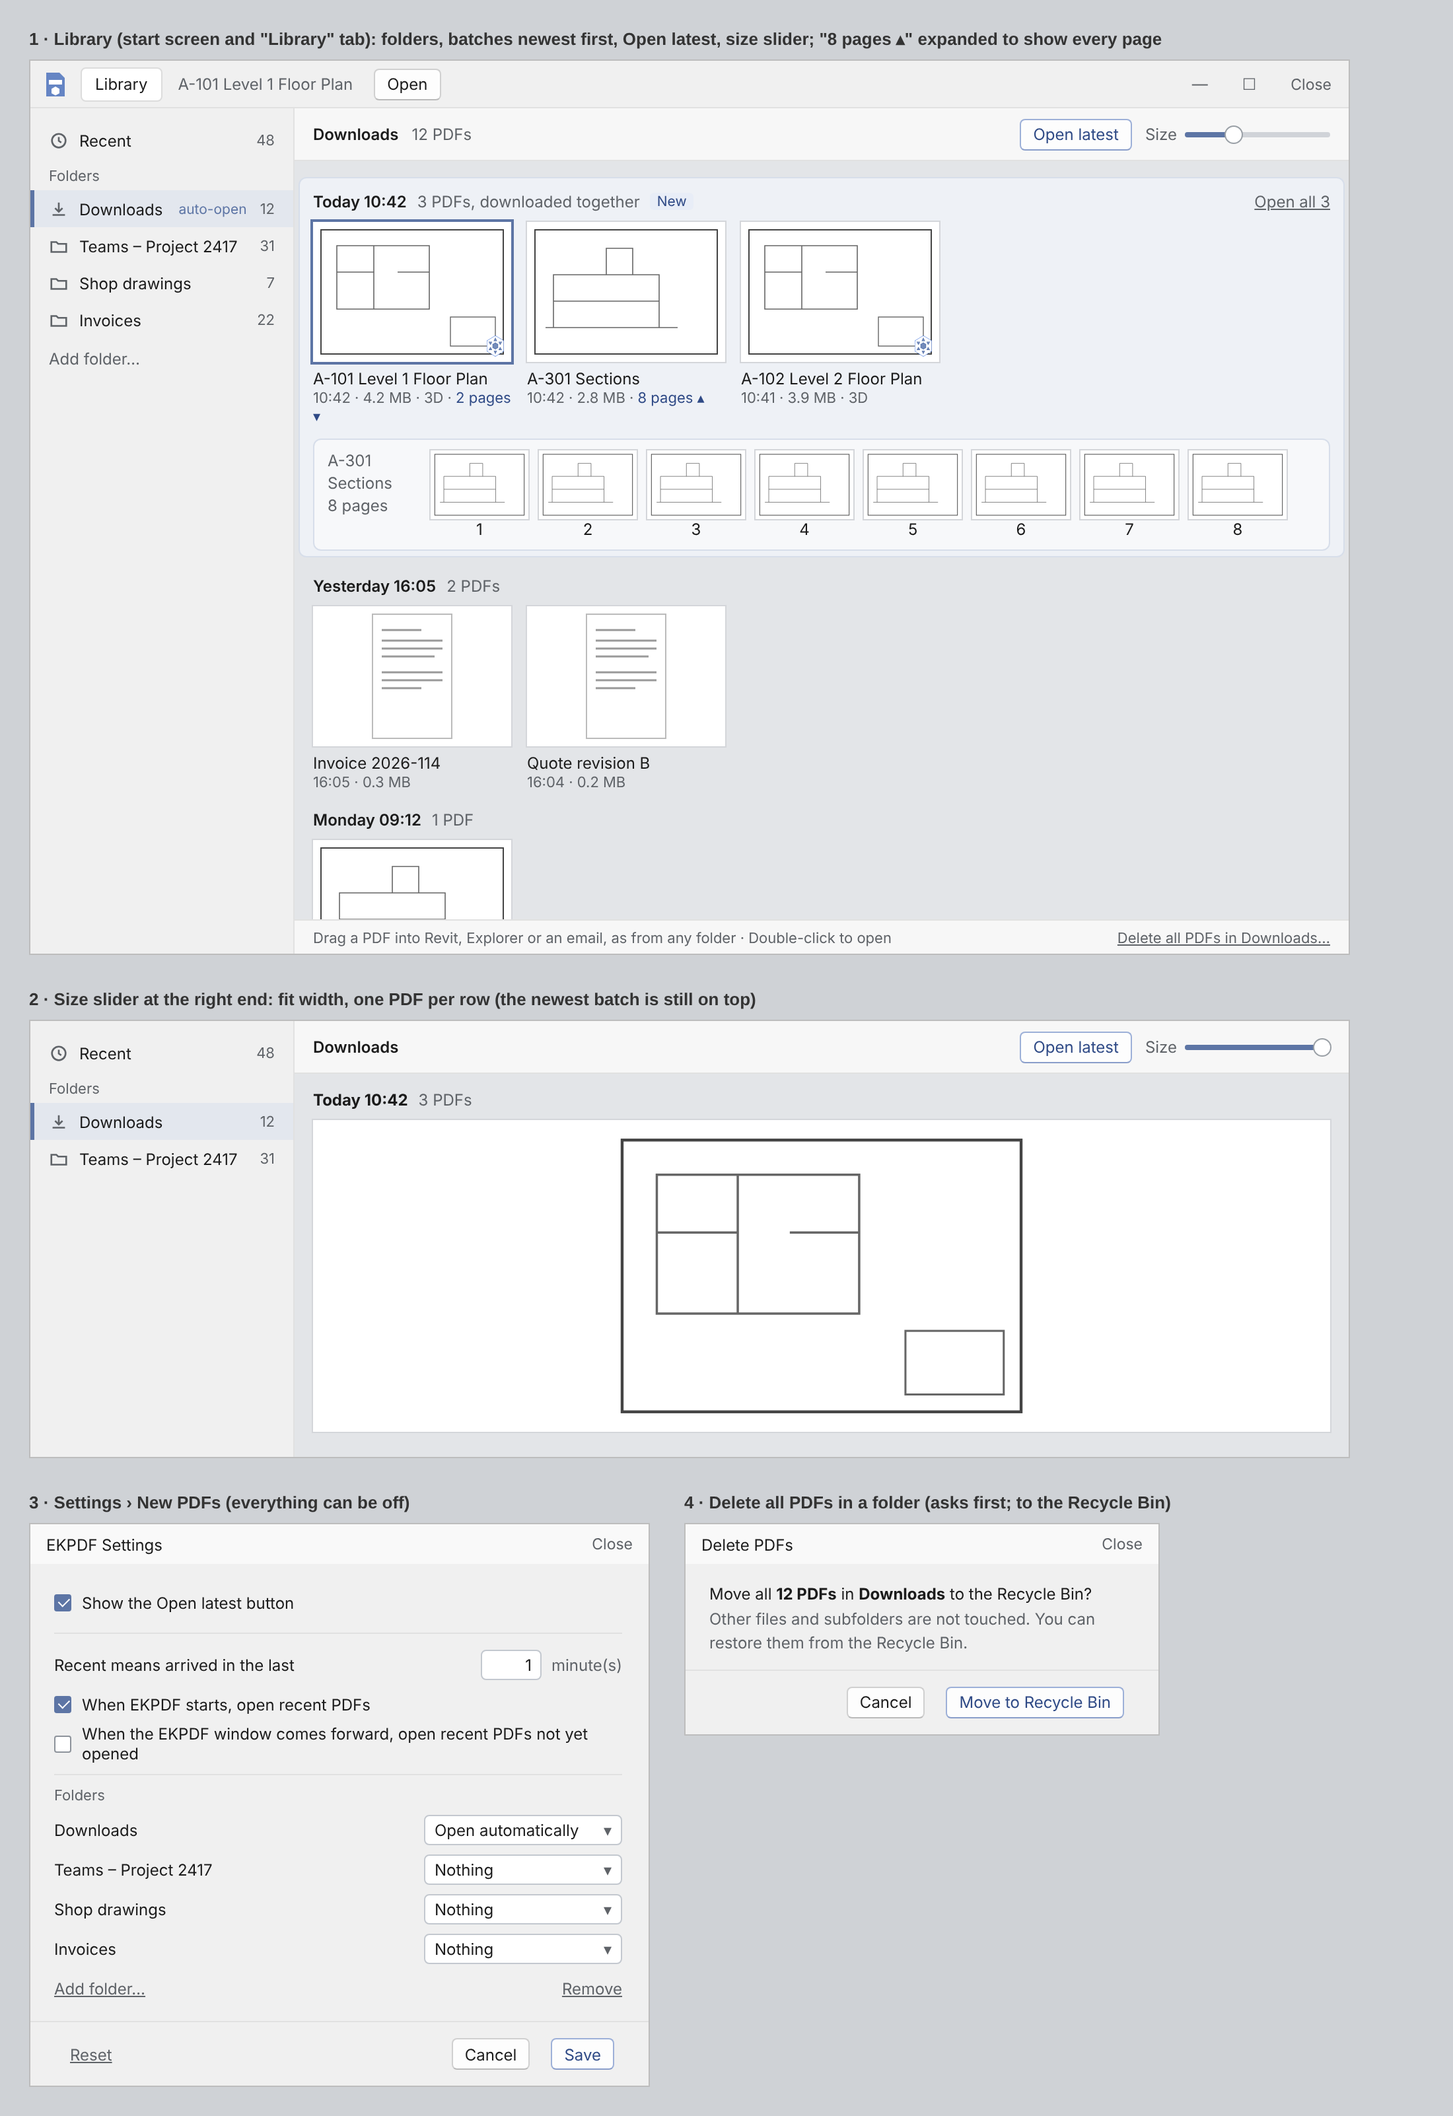
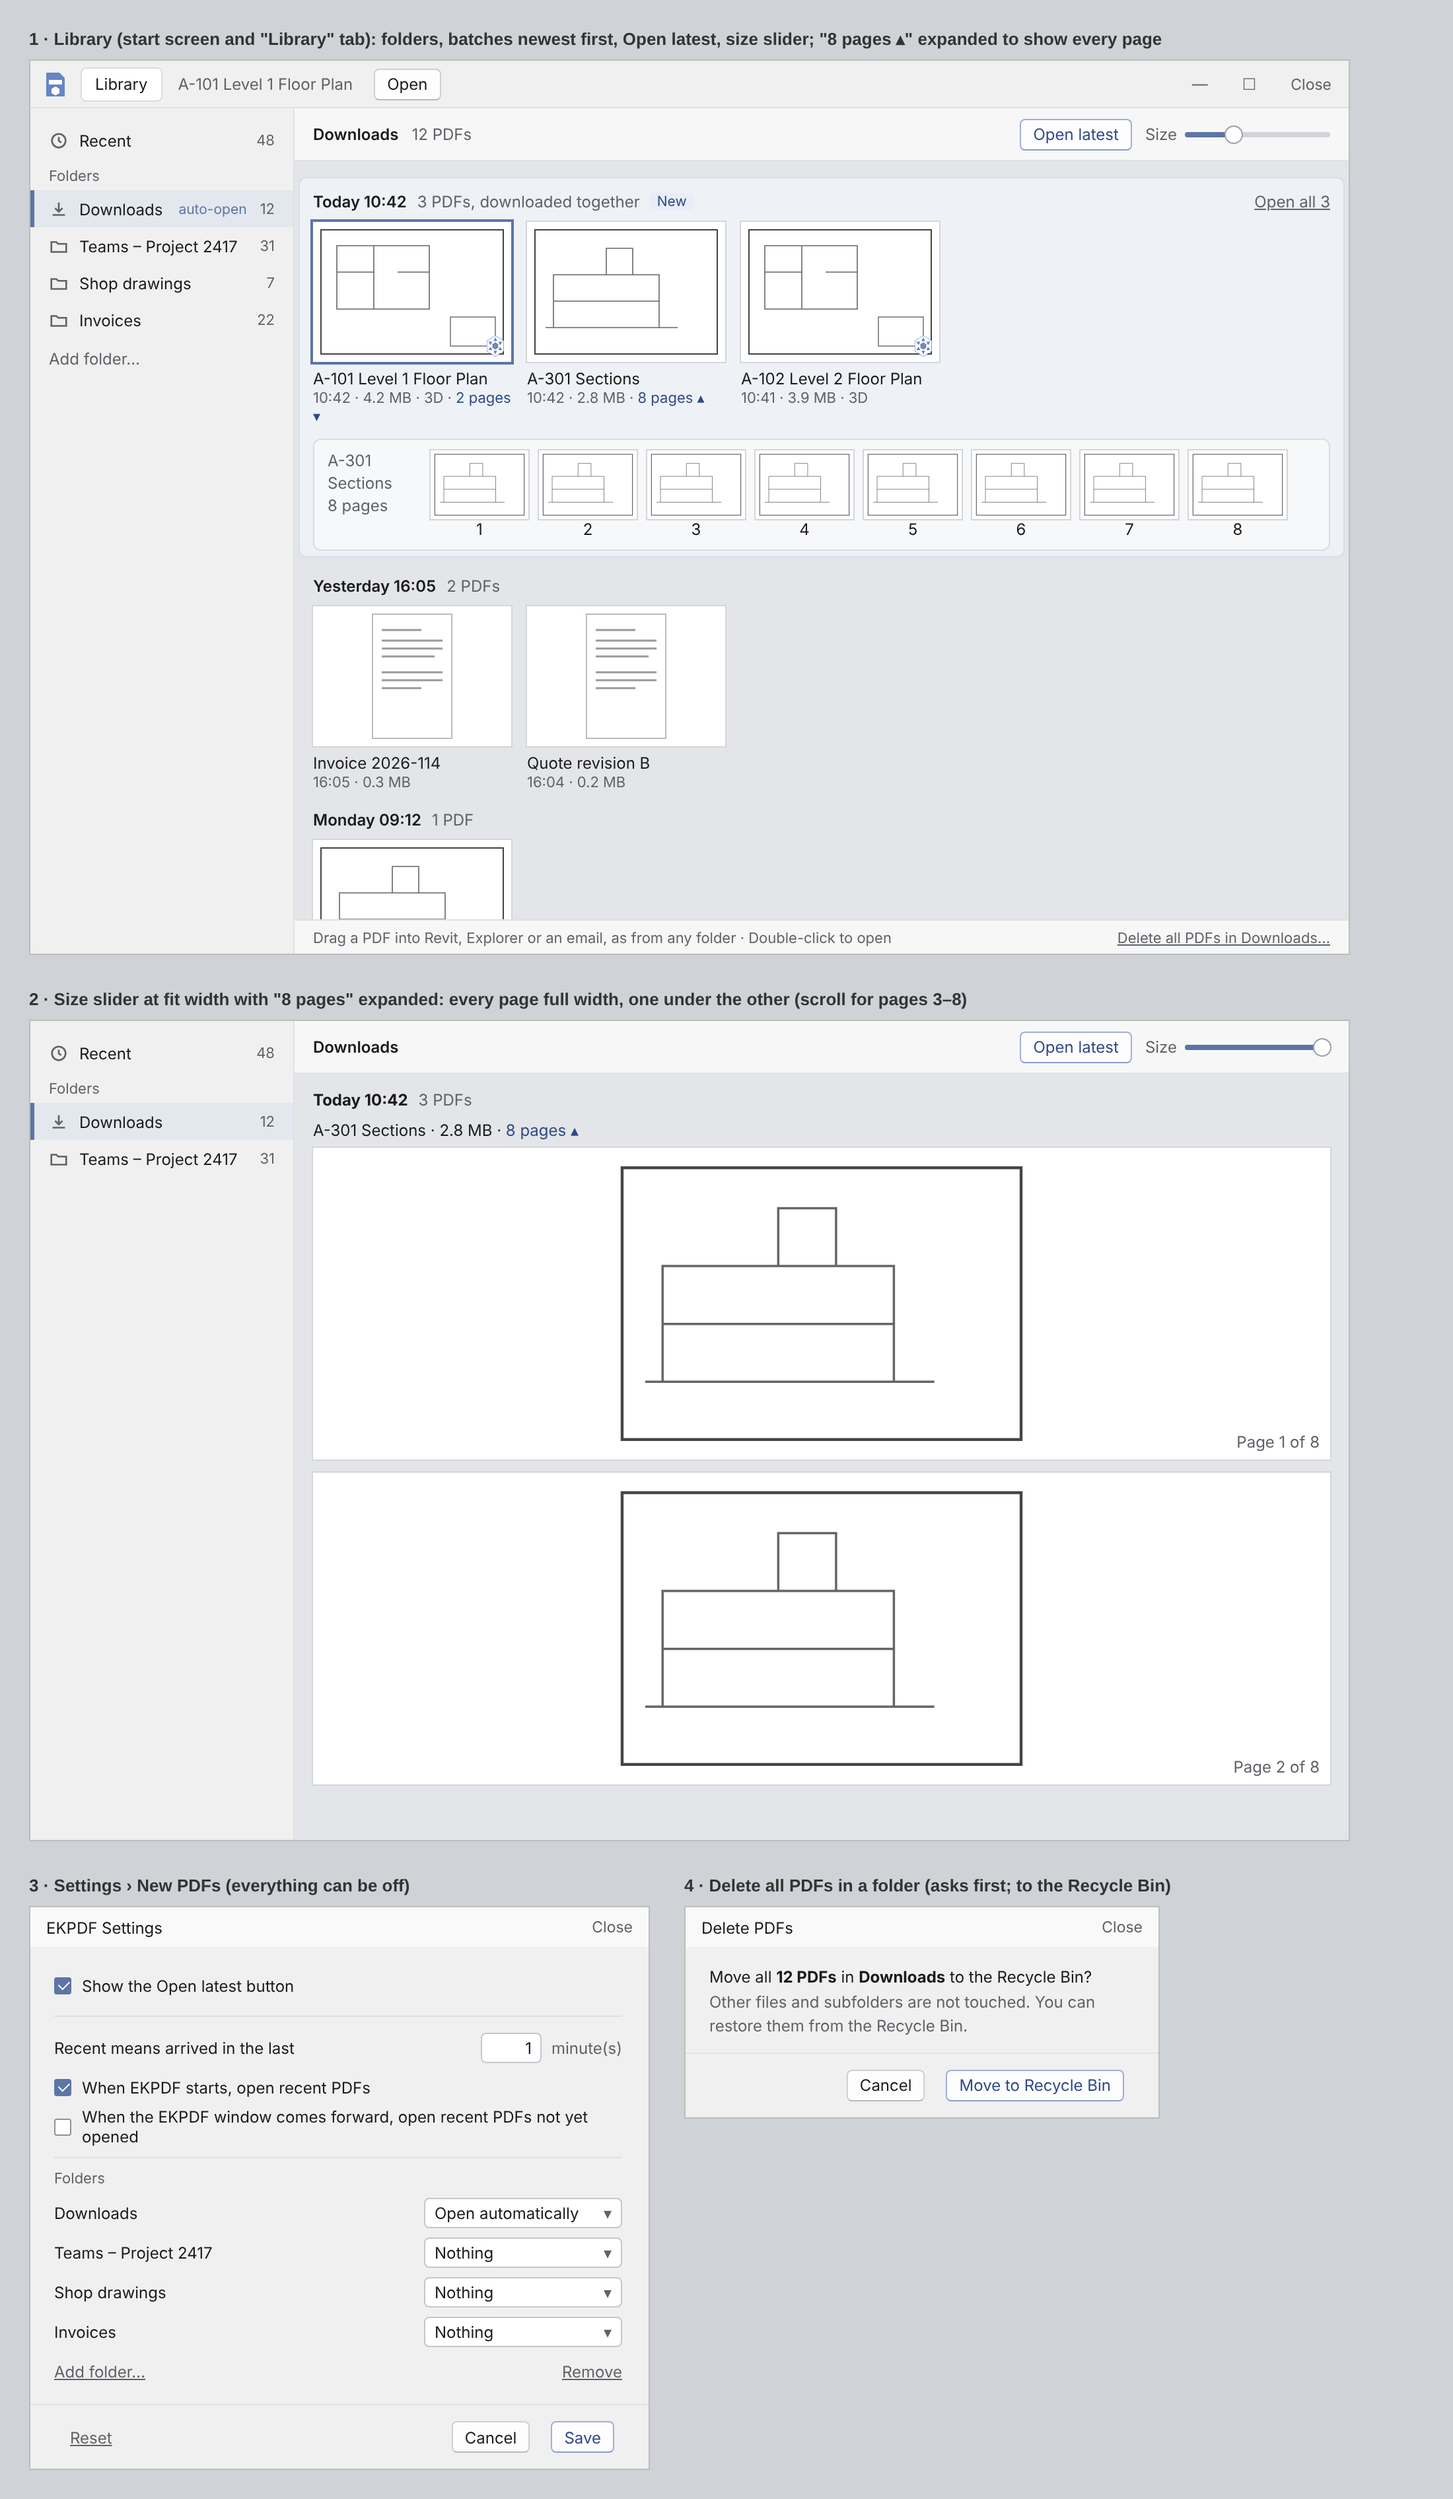
Library mockup: expanded pages follow the size slider (full width at fit width)
Claude-Session: https://claude.ai/code/session_01N3DjppHZ7MgzVDBG7VuKSR

diff --git a/docs/mockups/library.html b/docs/mockups/library.html
@@ -95,13 +95,15 @@
  </div>
 </div></div>
 
-<div><div class="cap">2 · Size slider at the right end: fit width, one PDF per row (the newest batch is still on top)</div>
+<div><div class="cap">2 · Size slider at fit width with "8 pages" expanded: every page full width, one under the other (scroll for pages 3–8)</div>
 <div class="win">
- <div class="body" style="height:330px">
+ <div class="body" style="height:620px">
   <div class="side"><div class="f"><svg><use href="#clock"/></svg>Recent<span class="n">48</span></div><div class="h">Folders</div><div class="f on"><svg><use href="#dl"/></svg>Downloads<span class="n">12</span></div><div class="f"><svg><use href="#fold"/></svg>Teams – Project 2417<span class="n">31</span></div></div>
   <div class="main"><div class="top"><span class="title">Downloads</span><div style="flex:1"></div><div class="btn accent">Open latest</div><div class="slider">Size<div class="t"><i style="width:100%"></i><b style="left:88%"></b></div></div></div>
    <div class="list"><div class="bh" style="display:flex;gap:8px;color:#5f6368;margin-bottom:8px"><b style="color:#1b1b1b">Today 10:42</b>3 PDFs</div>
-    <div class="thumb" style="height:236px"><svg width="330" height="232"><use href="#plan"/></svg></div></div></div>
+    <div style="margin-bottom:6px">A-301 Sections · 2.8 MB · <span class="pages">8 pages ▴</span></div>
+    <div class="thumb" style="height:236px"><svg width="330" height="232" viewBox="0 0 150 106"><use href="#sec"/></svg><span class="sec" style="position:absolute;right:8px;bottom:6px">Page 1 of 8</span></div>
+    <div class="thumb" style="height:236px;margin-top:10px"><svg width="330" height="232" viewBox="0 0 150 106"><use href="#sec"/></svg><span class="sec" style="position:absolute;right:8px;bottom:6px">Page 2 of 8</span></div></div></div>
  </div></div></div>
 
 <div style="display:flex;gap:26px;align-items:flex-start">
